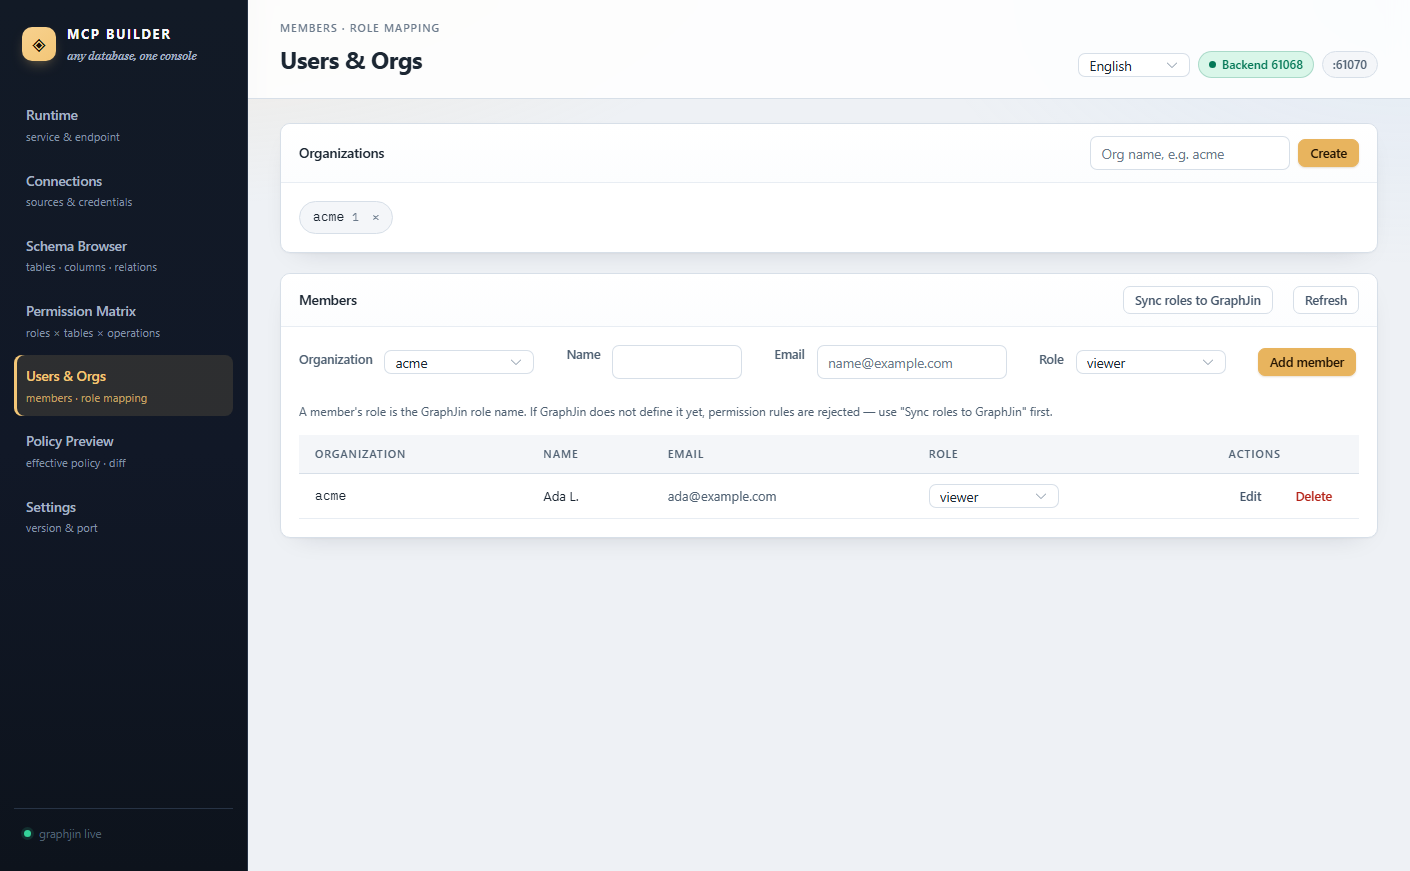
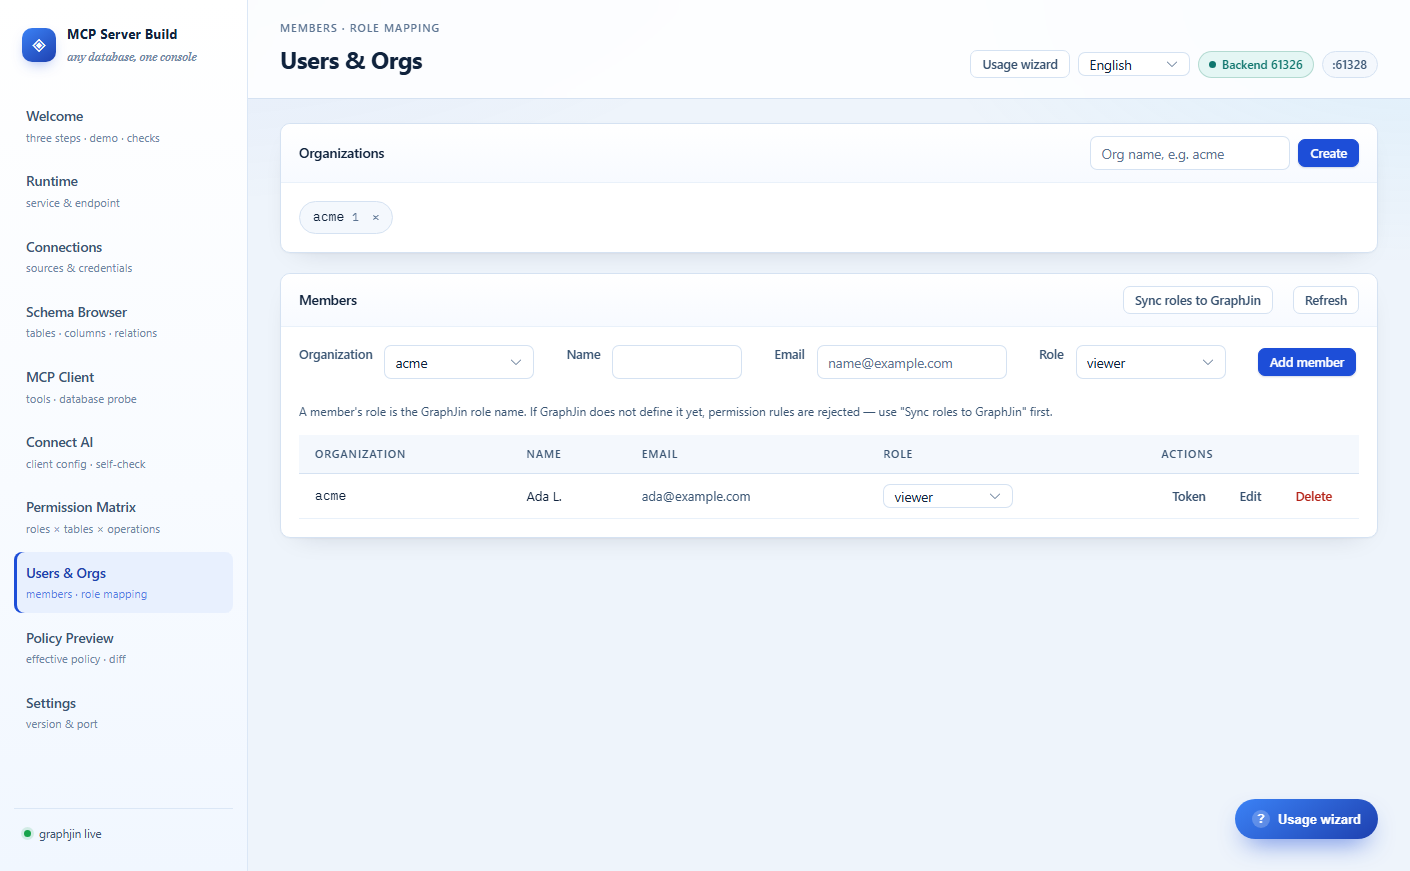
docs: 使用引导 GUIDE、全量截图（11 页 x 中英文）与 README / FEATURES 同步
- 新增 docs/GUIDE.md：从零到接入 AI 的完整走法，README 中英文顶部与目录挂链接

- 重新生成 docs/screenshots：新增 welcome / guide / mcp / connect 四张，刷新其余七张，中英文各 11 页

- README 两个语言补欢迎页、使用向导、接入 AI、MCP Client 截图；界面叫法统一为「使用向导」

- FEATURES：补使用向导行与截图说明（11 页 x 中英文，含向导打开态）

diff --git a/docs/GUIDE.md b/docs/GUIDE.md
@@ -1,0 +1,152 @@
+# 使用向导
+
+从零到「AI 只拿到该拿到的数据」的完整走法。全程在界面里完成，不需要手写 YAML。
+命令与安装细节见 [README](../README.md)，本文只讲**怎么用**。
+
+> 应用内也有一份分步引导：首次进入自动弹出，每步可直达对应页面；关闭后点顶栏
+> 「使用向导」按钮或右下角悬浮按钮即可再次打开。本文是同一套流程的完整文字版。
+
+## 目录
+
+- [0. 三步模型](#0-三步模型)
+- [1. 启动应用](#1-启动应用)
+- [2. 先跑一键演示（可选但推荐）](#2-先跑一键演示可选但推荐)
+- [3. 连接自己的数据库](#3-连接自己的数据库)
+- [4. 配置权限](#4-配置权限)
+- [5. 验证权限真的生效](#5-验证权限真的生效)
+- [6. 接入 AI 客户端](#6-接入-ai-客户端)
+- [7. 日常使用](#7-日常使用)
+- [8. 出问题先看这里](#8-出问题先看这里)
+- [附：页面地图](#附页面地图)
+
+## 0. 三步模型
+
+这个工具只做一件事：在 **AI 客户端** 和 **数据库** 之间装一道可验证的权限闸门。
+
+```
+连接数据库  →  配置权限  →  接入 AI 客户端
+（它能看什么）   （谁能看什么）     （Claude / Cursor / 任意 MCP 客户端）
+```
+
+产出是一个 MCP 端点（`http://127.0.0.1:<端口>/api/v1/mcp`）。AI 通过 MCP 工具查数据时，
+GraphJin 按你配的角色规则拦截：看不到的表查不到，行过滤的行取不出来，写 / 删按数据源档位挡掉。
+每一步都可验证、可回滚。
+
+## 1. 启动应用
+
+第一次用只需三步（详细命令见 README「本地启动」）：
+
+```bash
+npm install                 # 装依赖
+npm run prepare:binaries    # 准备并校验 GraphJin 二进制
+npm run electron:dev        # 启动桌面端（或 npm run dev 纯浏览器调试）
+```
+
+启动后默认落在**欢迎页**，上面有三步状态卡片和「一键体检」——不确定环境是否就绪就先点体检，
+它会逐项告诉你 GraphJin 二进制 / 后端 / 实例 / 数据库 / 角色是正常还是异常。
+
+## 2. 先跑一键演示（可选但推荐）
+
+没有现成数据库、或想先看效果：欢迎页点 **「一键演示」**。
+
+平台会自动完成：
+
+1. 建一个演示 SQLite 库 `orders.db`，里面已有 `customers` / `orders` 示例表和真实数据；
+2. 生成项目配置 `dev.yml`，预配好 `analyst` 只读角色：写 / 删被挡住，读带行过滤
+   （`owner_code` 等于当前用户才可见）；
+3. 拉起 GraphJin，右侧立刻列出拿到的库、角色、表和端点。
+
+接着到 **MCP Client** 页点「测试全部库」，再跑一条示例查询，就能看到数据真的被读出来——
+此时权限已经在生效。看完可以到「数据库连接」删掉演示连接，随时可重来。
+
+## 3. 连接自己的数据库
+
+到 **数据库连接** 页，填连接名、类型和连接信息：
+
+| 类型 | 怎么填 |
+|:--|:--|
+| SQLite | 录入方式选「文件路径」，填已有的 `.db` 文件 |
+| PostgreSQL / MySQL 等 | 填主机、端口、库名、用户、密码 |
+| TiDB 等兼容库 | 选对应的 postgres / mysql 协议类型接入 |
+
+「项目目录」填一个空目录（如 `projects/myapp`），GraphJin 的 `dev.yml` 会写在这里。
+带密码的连接会用数据目录下的 `keystore.key` 加密保存，不会明文落盘。
+
+1. 点 **「测试连接」** —— 通过后自动保存到本地列表；
+2. 点 **「启动」** —— 平台创建/合并 `dev.yml` 并拉起 GraphJin；
+3. 到 **Schema 浏览器** 确认表、列、关系已经被发现。
+
+## 4. 配置权限
+
+到 **权限矩阵**，分两层配，先档位后规则：
+
+1. **数据源访问**：每个库的读 / 写 / 删档位（如只读库把写和删设为 blocked）、owner 列、表分类；
+2. **角色读规则**：添加角色（如 `analyst`、`reporter`），给表配可见性和读规则——
+   行过滤（如只看自己 `owner_code` 的行）和列管控（隐藏敏感列）。
+
+点 **「应用到 GraphJin」** 后会先展示 diff，确认才写入；写入前自动保存快照，随时可回滚。
+
+> `admin` 是平台保留角色：不进矩阵、不受限制规则约束、回滚不会删它。别拿它当业务角色用。
+
+行过滤里的 `$user_code` 之类的变量来自调用方身份。AI 走 MCP 时**不透传**用户标识，
+所以 MCP 路径上行过滤不生效，只有角色级规则生效——这正是要在下一节验证的边界。
+
+## 5. 验证权限真的生效
+
+不要只看配置写进去了，要跑真查询：
+
+- **MCP Client** 页：选角色 → 「测试全部库」逐库探活 → 跑示例查询。
+  示例查询按当前库的真实表名生成，点一下就填进编辑器，不用自己拼 GraphQL；
+  下方「调用示例」给出 `execute_graphql` 等工具的参数 JSON，可直接复制给 AI 客户端。
+- **策略预览** 页：看当前生效的完整策略和与上次的 diff，确认规则真的挂上了。
+- 换个受限角色再查一次敏感表——查不到 / 行数变少，才是权限生效的证据。
+
+## 6. 接入 AI 客户端
+
+到 **接入 AI** 页：
+
+1. 选你的客户端（Claude Desktop / Claude Code / Cursor 等），卡片上直接给出配置文件位置
+   和可复制的 `mcpServers` 片段；命令行接入的 `graphjin mcp add` 命令也一并给出；
+2. 粘进客户端配置，重启客户端；
+3. 回到页面点 **「自检」** —— 平台用 MCP 协议走一遍工具列表，确认客户端能连上。
+
+> 限制：MCP 不转发用户标识，AI 只能按角色拿到数据，拿不到「某个人的行」这种粒度。
+> 需要行级隔离时，请在业务侧用带身份的调用（HTTP + `X-User-Role`）验证。
+
+## 7. 日常使用
+
+| 场景 | 去哪 |
+|:--|:--|
+| 加人、建组织、给成员映射角色 | **用户与组织** |
+| 改权限后确认 diff、回滚上一次写入 | **策略预览**（写入前自动存快照） |
+| 看端点 / 进程状态、手动启停 | **运行状态** |
+| 环境体检（二进制 / 后端 / 实例 / 库 / 角色） | **欢迎页 · 一键体检** |
+| 旧项目（`databases:` 旧格式） | 启动时自动迁移成 `sources:`，原文件留 `.bak`，失败自动回滚 |
+| 版本、端口等 | **设置** |
+
+## 8. 出问题先看这里
+
+| 现象 | 处理 |
+|:--|:--|
+| 一键体检报红 | 按报红项定位：二进制缺失跑 `npm run prepare:binaries`；实例没起先在「运行状态」启动 |
+| 启动后立刻退出 | 看「运行状态」的日志和项目目录下 `dev.yml`；常见是端口冲突或数据库连不上 |
+| AI 客户端连不上 | 先在「接入 AI」点自检；再确认客户端配置里的 URL 端口和当前实例一致 |
+| 查不到表 / 行数不对 | 先确认当前角色的读规则；MCP 路径下行过滤不生效，只有角色级规则生效 |
+| 带密码的连接保存失败 | 确认数据目录下 `keystore.key` 存在；丢失后旧连接需重新录入密码 |
+
+更多命令行排查（端口占用、Node 版本、二进制校验）见 README「常见问题」。
+
+## 附：页面地图
+
+| 页面 | 干什么 |
+|:--|:--|
+| 欢迎 | 三步状态、一键演示、一键体检 |
+| 运行状态 | 服务启停、端点、进程、日志 |
+| 数据库连接 | 建连接、测试、启动 |
+| Schema 浏览器 | 表 / 列 / 关系 |
+| MCP Client | 工具列表、逐库探活、示例查询、调用示例 |
+| 接入 AI | 客户端配置、一键复制、自检 |
+| 权限矩阵 | 数据源访问档位 + 角色读规则 |
+| 用户与组织 | 成员、角色映射 |
+| 策略预览 | 生效策略、变更 diff、回滚 |
+| 设置 | 版本、端口 |

diff --git a/docs/FEATURES.md b/docs/FEATURES.md
@@ -50,11 +50,12 @@
 | 一键演示 | 10 秒建示例项目并启动（orders / customers + analyst 只读角色），返回库 / 角色 / 表 / 端点，可跳到 Schema 与权限矩阵 |
 | 接入向导 | 客户端卡片（含配置文件位置）、配置 JSON 一键复制、`graphjin mcp add` 命令、自检 tools/list |
 | 自查诊断 | 二进制 / 后端 / 实例 / 库 / 角色的红绿灯结果 |
+| 使用向导 | 应用内抽屉式分步引导（连接 → 配权限 → 验证 → 接入 AI），每步可跳转对应页面；首访自动弹出，关闭写 localStorage 不再自动弹，右下角悬浮按钮与顶栏「使用向导」按钮随时再次打开 |
 | 运行状态 | 进程、端点、项目目录、重启次数、探活、停止、MCP 客户端配置复制；发生 legacy 迁移时展示迁移结果面板（成功/失败、迁移的库、冲突明细、备份文件路径可复制） |
 | 数据库连接 | 内置类型 + 自定义模板；三种录入方式；测试 / 启动 / 存模板；驱动未验证类型自动禁用测试与启动 |
 | 已保存连接 | 测试或启动成功后自动落盘；回填表单、一键启动、删除；「已连接」按当前运行实例现算（项目目录 + dev.yml 库名匹配），停止或换项目后回落为「已测试」；删除时同步从 dev.yml 摘掉该库，还有别的库则重启实例、删最后一个则停止服务 |
 | Schema 浏览器 | 顶部库选择，按库加载表 / 列 / 关系；结构与关系隔离 |
-| MCP Client | 按 MCP 协议连当前实例；「测试全部库」逐库读 catalog 再跑一次最小查询（跨库重名表降级为仅 catalog 校验），另可列工具、按角色执行 GraphQL 看原始返回 |
+| MCP Client | 按 MCP 协议连当前实例；「测试全部库」逐库读 catalog 再跑一次最小查询（跨库重名表降级为仅 catalog 校验），另可列工具、按角色执行 GraphQL 看原始返回；示例查询按当前库真实表名生成、点击填入，工具调用示例给出可复制的参数 JSON |
 | 权限矩阵 | 每个数据源一个独立标签页，角色清单、矩阵与未提交改动各自独立；角色 × 表的读规则（行过滤、列白名单 / 黑名单）；数据源级读/写/删档位、owner 列、仅管理员/全局屏蔽表；标签上有未提交改动提示；可移除本地角色 |
 | 策略回填 / 导入 | 加载时用生效策略补空格子（不覆盖本地改动）；「从生效策略导入」二次确认后覆盖 |
 | 写入历史 / 回滚 | 列出每份快照（时间、角色数、库、原因），可恢复到任意一份；回滚前自动再快照 |
@@ -72,16 +73,17 @@
 | 内容 | 位置 / 命令 |
 |:--|:--|
 | 中英文 README（介绍、截图、部署运行） | `README.md` / `README.en.md` |
+| 使用向导（从零到接入 AI 的完整走法） | `docs/GUIDE.md` |
 | 功能进度（本文件） | `docs/FEATURES.md` |
 | GraphJin 实测基线 | `docs/graphjin-3.21.14-baseline.md` |
 | source 迁移设计与踩坑 | `docs/graphjin-source-migration.md` |
 | 本地测试数据库 | `docs/docker-compose-4-test-db-connection.yml`：MySQL / PostgreSQL / MongoDB / SQL Server，Oracle 注释可选 |
-| 后端单测 | `cd sidecar-backend && npm test`（189 项） |
+| 后端单测 | `cd sidecar-backend && npm test`（191 项） |
 | 前端策略单测 | `npm run test:frontend`（8 项） |
 | 真机全链路 | `cd sidecar-backend && npm run verify:e2e`（24 项，含快照回滚） |
 | legacy 迁移验证 | `cd sidecar-backend && npm run verify:migration`（12 项，含数据库不可达的项目） |
 | 二进制冒烟 | `npm run smoke:binaries` |
-| UI 冒烟 + 截图 | `npm run build && npm run verify:ui`（32 项：语言切换、窗口标题带项目名、组织/成员与资料编辑、权限写入 / 验证 / 回滚、每库独立标签、MCP 逐库探活与查询、停止后连接状态回落、删库后 Schema 重置、本地角色删除、欢迎页 / 接入向导 / 一键演示 / 一键体检） |
+| UI 冒烟 + 截图 | `npm run build && npm run verify:ui`（42 项：语言切换、窗口标题带项目名、组织/成员与资料编辑、权限写入 / 验证 / 回滚、每库独立标签、MCP 逐库探活与查询、MCP 调用示例、右下角悬浮按钮存在 / 可打开、使用向导自动弹出 / 关闭 / 再开 / 跳转、停止后连接状态回落、删库后 Schema 重置、本地角色删除、欢迎页 / 接入向导 / 一键演示 / 一键体检）；`--shots=docs/screenshots` 逐页产出 11 个页面 × 中英文截图（含使用向导打开态） |
 
 ## 未完成
 

diff --git a/README.en.md b/README.en.md
@@ -2,7 +2,7 @@
 
 **Configure GraphJin visually and turn any database into an MCP server.**
 
-[中文](./README.md) · [Feature status](./docs/FEATURES.md)
+[中文](./README.md) · [Usage wizard (zh)](./docs/GUIDE.md) · [Feature status](./docs/FEATURES.md)
 
 MCP Server Build is a desktop tool: enter a database connection, and it starts GraphJin,
 discovers the schema, and writes your permissions into GraphJin's `sources` config
@@ -18,6 +18,7 @@ migration fails.
 
 ## Contents
 
+- [Usage wizard (zh)](./docs/GUIDE.md) — end-to-end walkthrough, from zero to a connected AI client
 - [Architecture](#architecture)
 - [Features](#features)
 - [Requirements](#requirements)
@@ -80,11 +81,21 @@ databases**; from there you can jump straight to the schema browser or the permi
 "Self-check" at the bottom reports the GraphJin binary, backend, running instance, database
 reachability and role configuration as red/green items.
 
+On first launch the app also opens the in-app **usage wizard** (connect → set permissions →
+verify → plug in your AI, each step jumping to the right page). Closing it stops the auto-open;
+the "Usage wizard" button in the bottom-right or the top bar brings it back anytime.
+
+![Welcome page](./docs/screenshots/en-US/welcome.png)
+
+![Usage wizard](./docs/screenshots/en-US/guide.png)
+
 ### Connect an AI client
 
 Pick Claude Desktop / Claude Code / Cursor, copy the config JSON or the `graphjin mcp add`
 command in one click, then run the self-check — it calls `tools/list` so you can see the tools
 are actually exposed.
+
+![Connect AI](./docs/screenshots/en-US/connect.png)
 
 ### Connections
 
@@ -122,11 +133,16 @@ The built-in MCP client talks to the running instance over the protocol itself
 **Test all databases** reads each source's catalog and then runs one minimal query against the
 first table unique to that database, reporting status, table count, sample table and elapsed time
 per database, with failures highlighted. The same page lists tools per role and runs hand-written
-GraphQL through `execute_graphql`, showing the raw response.
+GraphQL through `execute_graphql`, showing the raw response. Below the query box, sample queries
+generated from the active database's real table names fill the editor in one click, and the
+"Call examples" block shows copyable argument JSON for tools like `execute_graphql` — paste it
+straight into your AI client.
 
 Tables with the same name in several databases cannot be addressed by name alone (in practice the
 query lands on the default database), so those databases only get a catalog check labelled
 "catalog only" instead of a false pass.
+
+![MCP Client](./docs/screenshots/en-US/mcp.png)
 
 > MCP `execute_graphql` does not forward the user code, so row filters never apply — this page
 > verifies role-level rules only. Use the verification panel on the permission matrix page
@@ -502,7 +518,7 @@ running; the UI reports the backend as offline after it stops.
 npm test                 # frontend policy tests + backend unit tests
 npm run smoke:binaries   # GraphJin binary smoke test
 npm run build            # production web build
-npm run verify:ui        # real backend + headless Edge (32 checks)
+npm run verify:ui        # real backend + headless Edge (42 checks)
 ```
 
 Full end-to-end verification (starts GraphJin for real, creates databases, writes
@@ -627,7 +643,7 @@ cd ..
 npm run test:frontend    # frontend policy normalization / diff (8)
 npm run smoke:binaries   # execute graphjin version for real
 npm run build
-npm run verify:ui        # real backend + headless Edge: locales, window title, orgs/members, write/verify/rollback, per-db tabs, MCP probe, status fallback, schema reset after delete, welcome / connect / demo / diagnostics (32)
+npm run verify:ui        # real backend + headless Edge: locales, window title, orgs/members, write/verify/rollback, per-db tabs, MCP probe + call examples, bottom-right floating button present / opens, usage wizard open/close/reopen/jump, status fallback, schema reset after delete, welcome / connect / demo / diagnostics (42)
 npm run verify:ui -- --shots=docs/screenshots   # regenerate both locale screenshot sets
 ```
 
